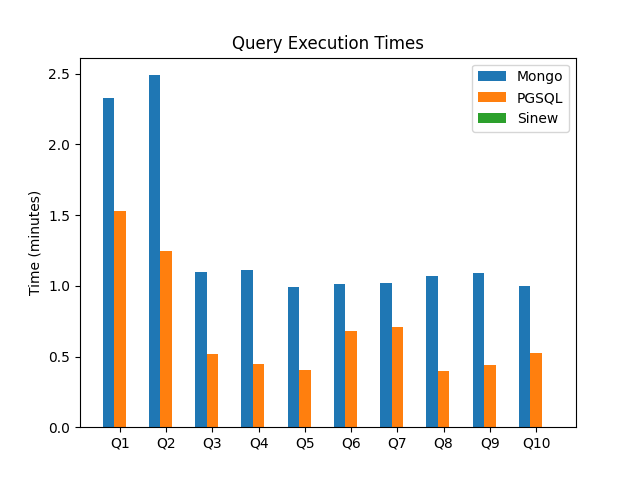
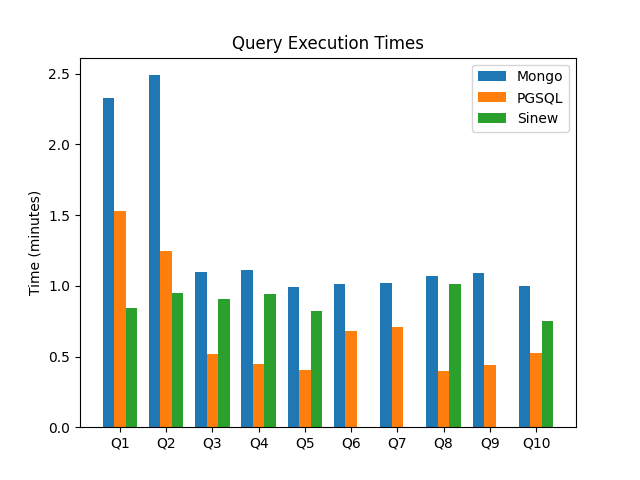
Added Sinew Testing Results

diff --git a/queries/show_results.py b/queries/show_results.py
@@ -34,7 +34,7 @@ queries_1_thru_10 = ['Q1', 'Q2', 'Q3', 'Q4', 'Q5', 'Q6', 'Q7', 'Q8', 'Q9', 'Q10'
 
 mongo_1_thru_10 = [2.33,   2.49,   1.1,    1.11,   0.99,   1.01,   1.02,   1.07,   1.09,   1]
 pgsql_1_thru_10 = [1.527,1.244,0.517,0.447,0.402,0.678,0.707,0.4,0.439,0.526]
-sinew_1_thru_10 = [0, 0, 0, 0, 0, 0, 0, 0, 0, 0]
+sinew_1_thru_10 = [0.842,0.949,0.91,0.943,0.819,0.0,0.0,1.014,0.0,0.749]
 
 query_11 = ['Q11']
 
@@ -42,9 +42,9 @@ mongo_11 = [18.08]
 pgsql_11= [13.83]
 sinew_11 = [0]
 
-# draw_plot(queries_1_thru_10, [(mongo_1_thru_10, "Mongo", -1), (pgsql_1_thru_10, "PGSQL", 0), (sinew_1_thru_10, "Sinew", 1)], padding=None)
-# draw_plot(query_11, [(mongo_11, "Mongo", -1), (pgsql_11, "PGSQL", 0), (sinew_11, "Sinew", 1)])
+draw_plot(queries_1_thru_10, [(mongo_1_thru_10, "Mongo", -1), (pgsql_1_thru_10, "PGSQL", 0), (sinew_1_thru_10, "Sinew", 1)], padding=None)
+draw_plot(query_11, [(mongo_11, "Mongo", -1), (pgsql_11, "PGSQL", 0), (sinew_11, "Sinew", 1)])
 
-draw_plot(list(itertools.chain(queries_1_thru_10, query_11)), [(list(itertools.chain(pgsql_1_thru_10, pgsql_11)), "PGSQL", 0)], padding=None, legend=False, bar_width=None)
-
+draw_plot(list(itertools.chain(queries_1_thru_10, query_11)), [(list(itertools.chain(sinew_1_thru_10, sinew_11)), "Sinew", 0)], padding=None, legend=False, bar_width=None)
+# draw_plot(list(itertools.chain(queries_1_thru_10, query_11)), [(list(itertools.chain(pgsql_1_thru_10, pgsql_11)), "PGSQL", 0)], padding=None, legend=False, bar_width=None)
 # draw_plot(list(itertools.chain(queries_1_thru_10, query_11)), [(list(itertools.chain(mongo_1_thru_10, mongo_11)), "Mongo", 0)], padding=None, legend=False, bar_width=None)
